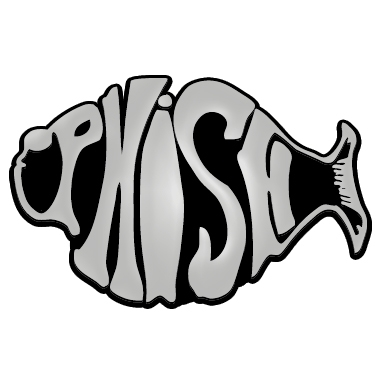
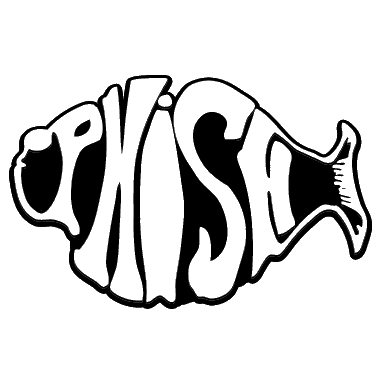
removed image file

Changed region(s): [[0.0289, 0.2026, 0.9842, 0.8105]]

diff --git a/home.php b/home.php
@@ -13,7 +13,7 @@ include('header.php');
 	
 		<nav class="navbar navbar-expand navbar-dark bg-secondary">
 			<img src="styles/images/dead.png" class="logo img-thumbnail">
-			<img src="styles/images/phish2.png" class="logo img-thumbnail">
+			<img src="styles/images/phish.png" class="logo img-thumbnail">
 			<button class="navbar-toggler" type="button" data-toggle="collapse" data-target="#navbarsExample02" aria-controls="navbarsExample02" aria-expanded="false" aria-label="Toggle navigation">
 				<span class="navbar-toggler-icon"></span>
 			</button>
